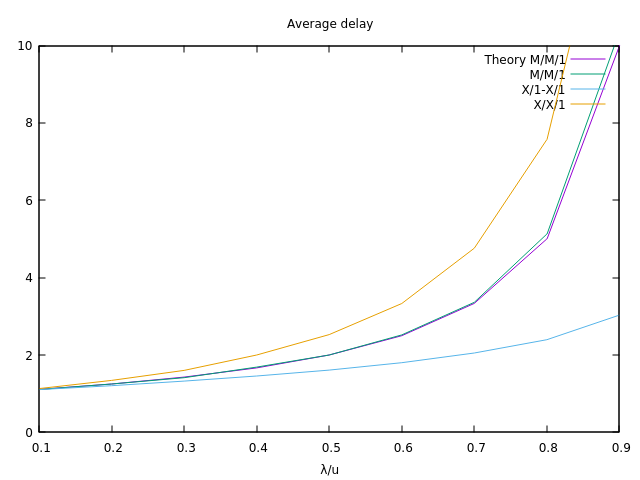
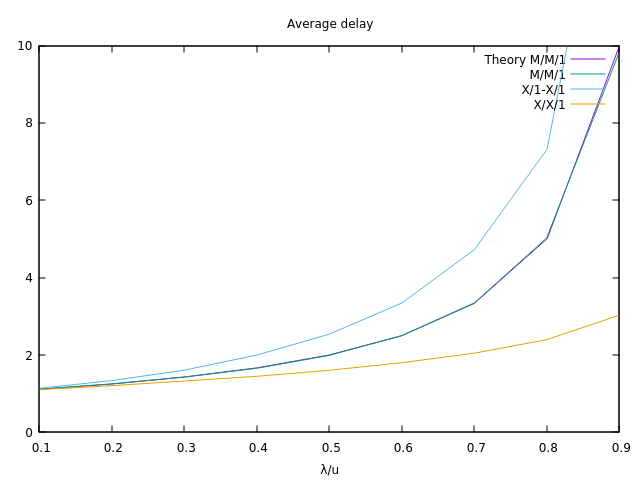
fix plots legend

diff --git a/src/MM1.cpp b/src/MM1.cpp
@@ -102,7 +102,7 @@ std::pair<double, double> MM1::gen(double in, double u, uint8_t rule) {
                 tmp = r.rnd();
             } while (tmp == 0 || tmp == 1);
             t1 = (-log(tmp) / in);
-            t2 = (-log(1 - tmp) / u);
+            t2 = (-log(tmp) / u);
             break;
 
         case 2:
@@ -110,7 +110,7 @@ std::pair<double, double> MM1::gen(double in, double u, uint8_t rule) {
                 tmp = r.rnd();
             } while (tmp == 0);
             t1 = (-log(tmp) / in);
-            t2 = (-log(tmp) / u);
+            t2 = (-log(1 - tmp) / u);
             break;
 
         default:

diff --git a/main.cpp b/main.cpp
@@ -7,7 +7,7 @@ using namespace std;
 
 int main() {
     MM1 m;
-    size_t num = 100000;
+    size_t num = 1000000;
     ofstream outt("mm1_delay_t.dat");
     ofstream out0("mm1_delay_p.dat");
     ofstream out1("xx1_delay_p.dat");
@@ -109,6 +109,5 @@ int main() {
         outtu2 << fixed << setprecision(3) << in / u << " " << m.getMeanTU() << endl;
         outT12 << fixed << setprecision(3) << in / u << " " << m.getT1() << endl;
         outT22 << fixed << setprecision(3) << in / u << " " << m.getT2() << endl;
-
     }
 }
